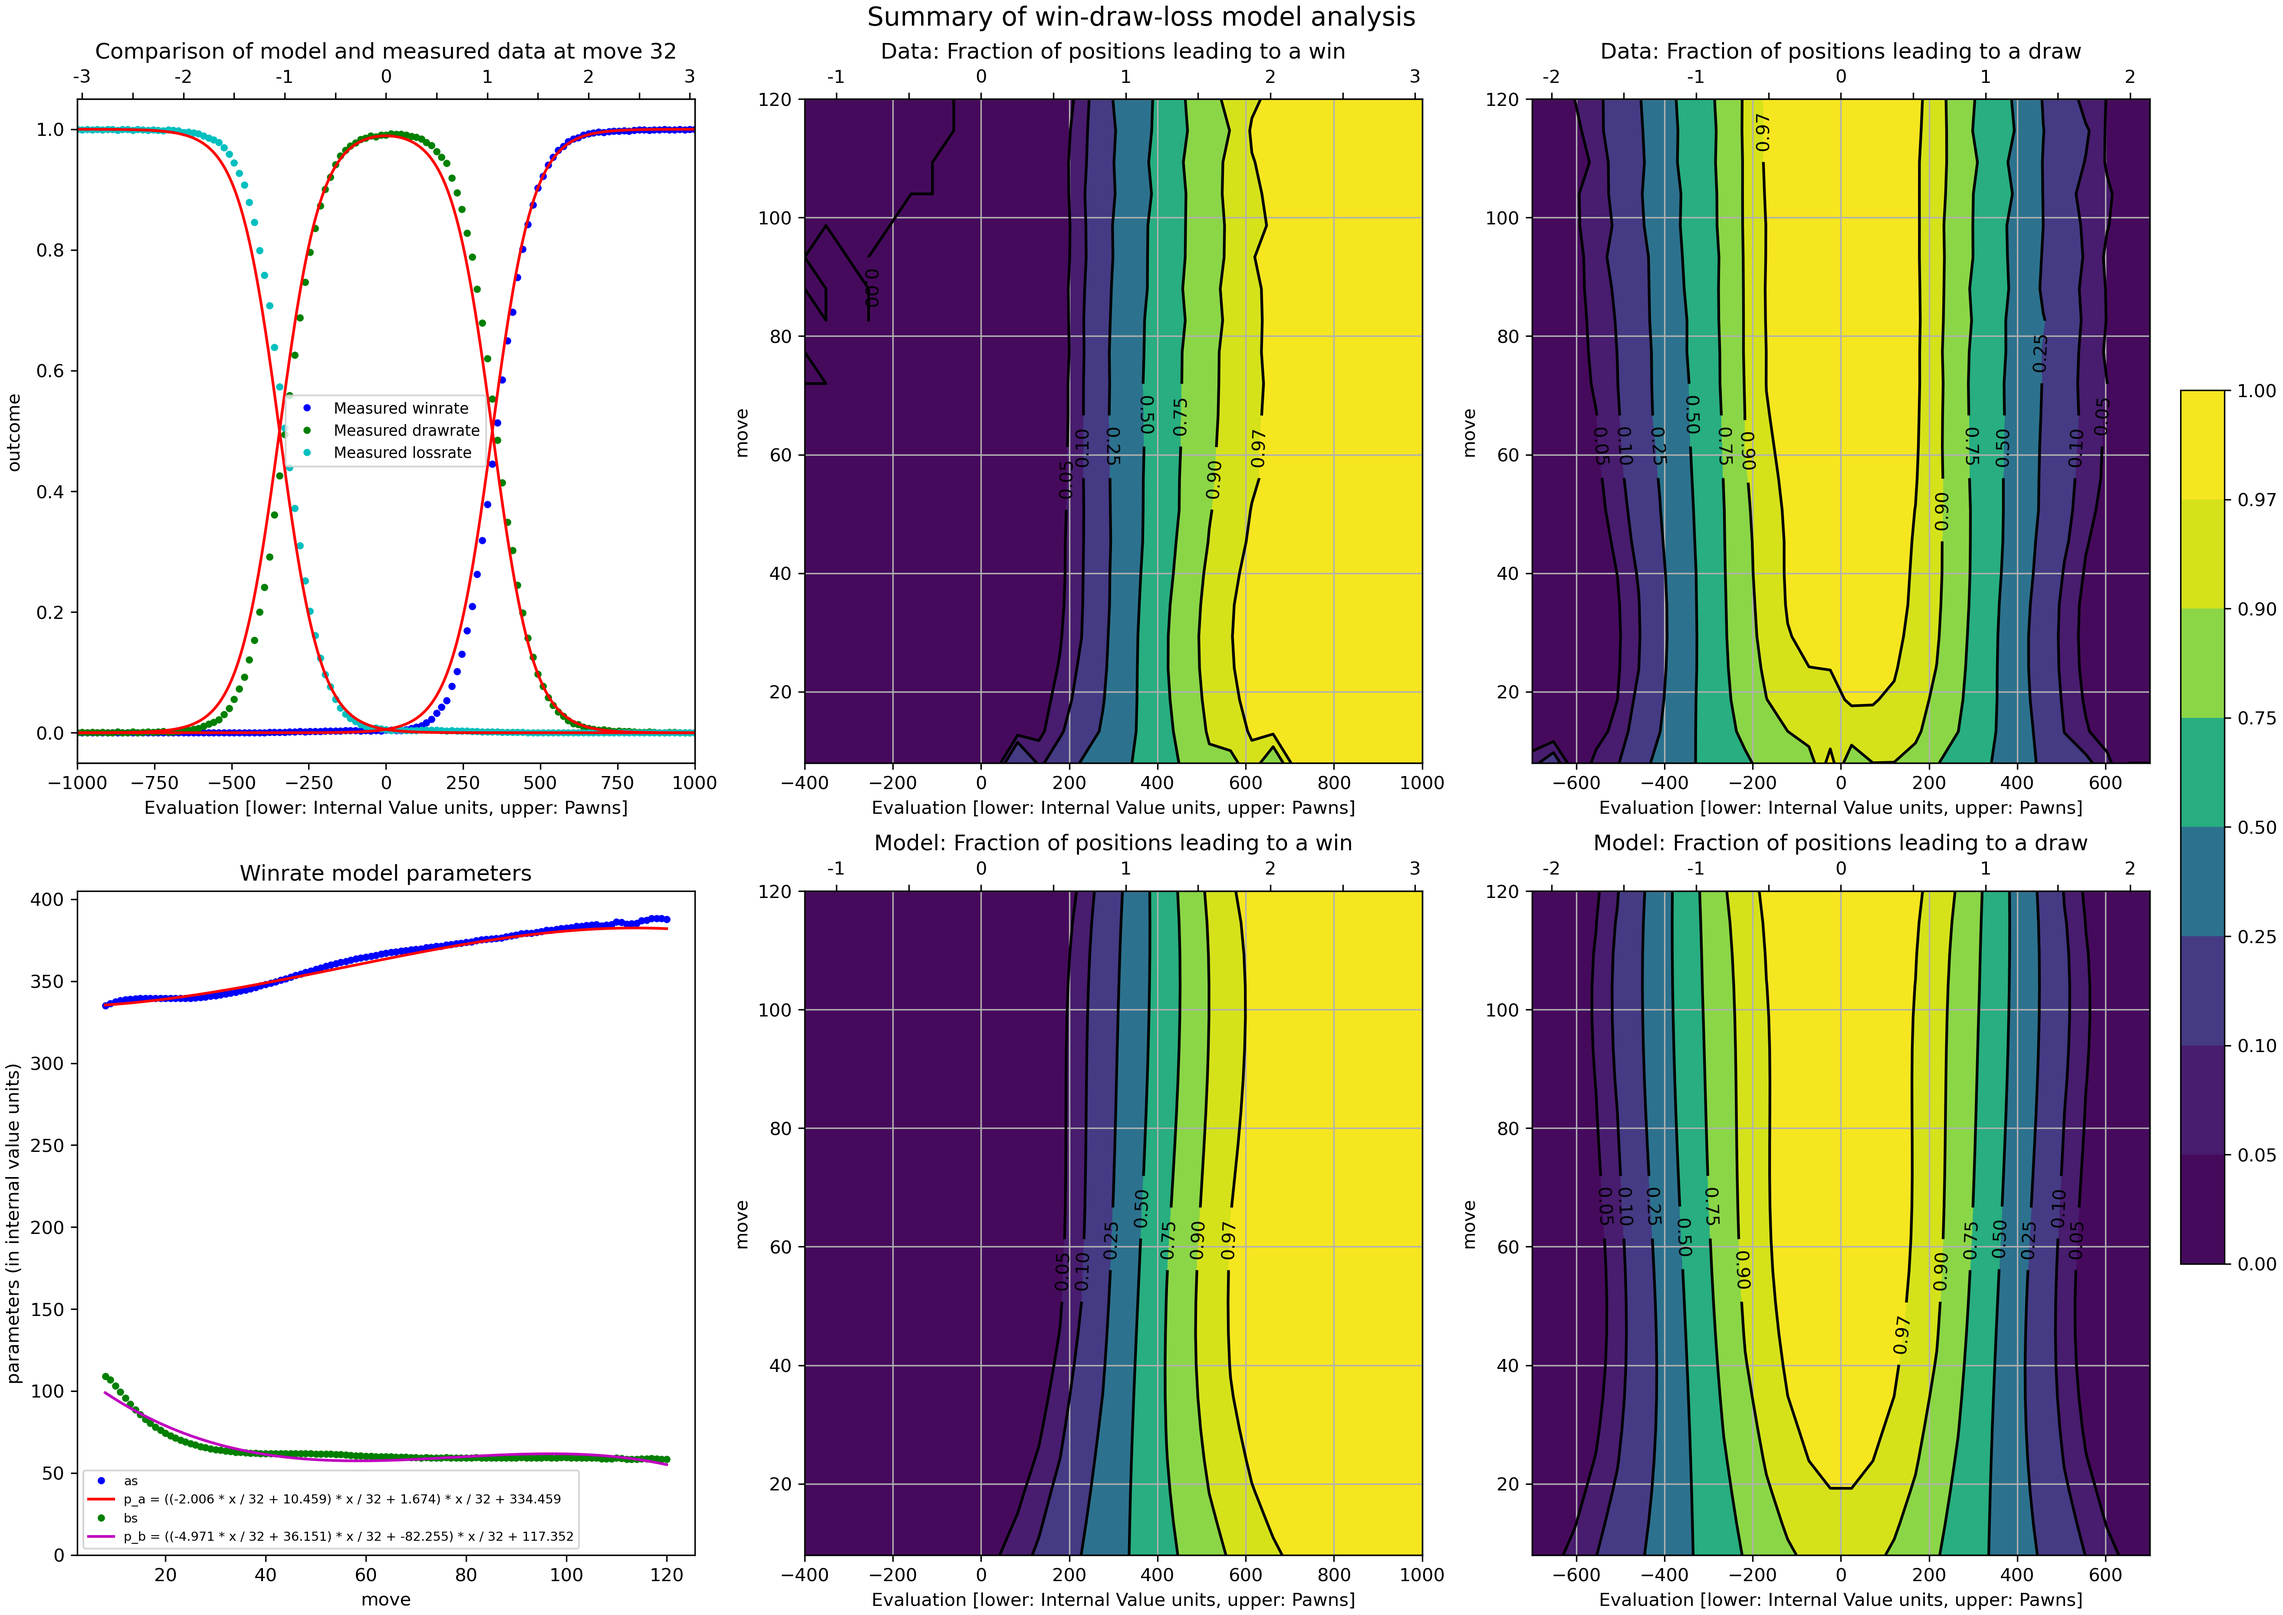
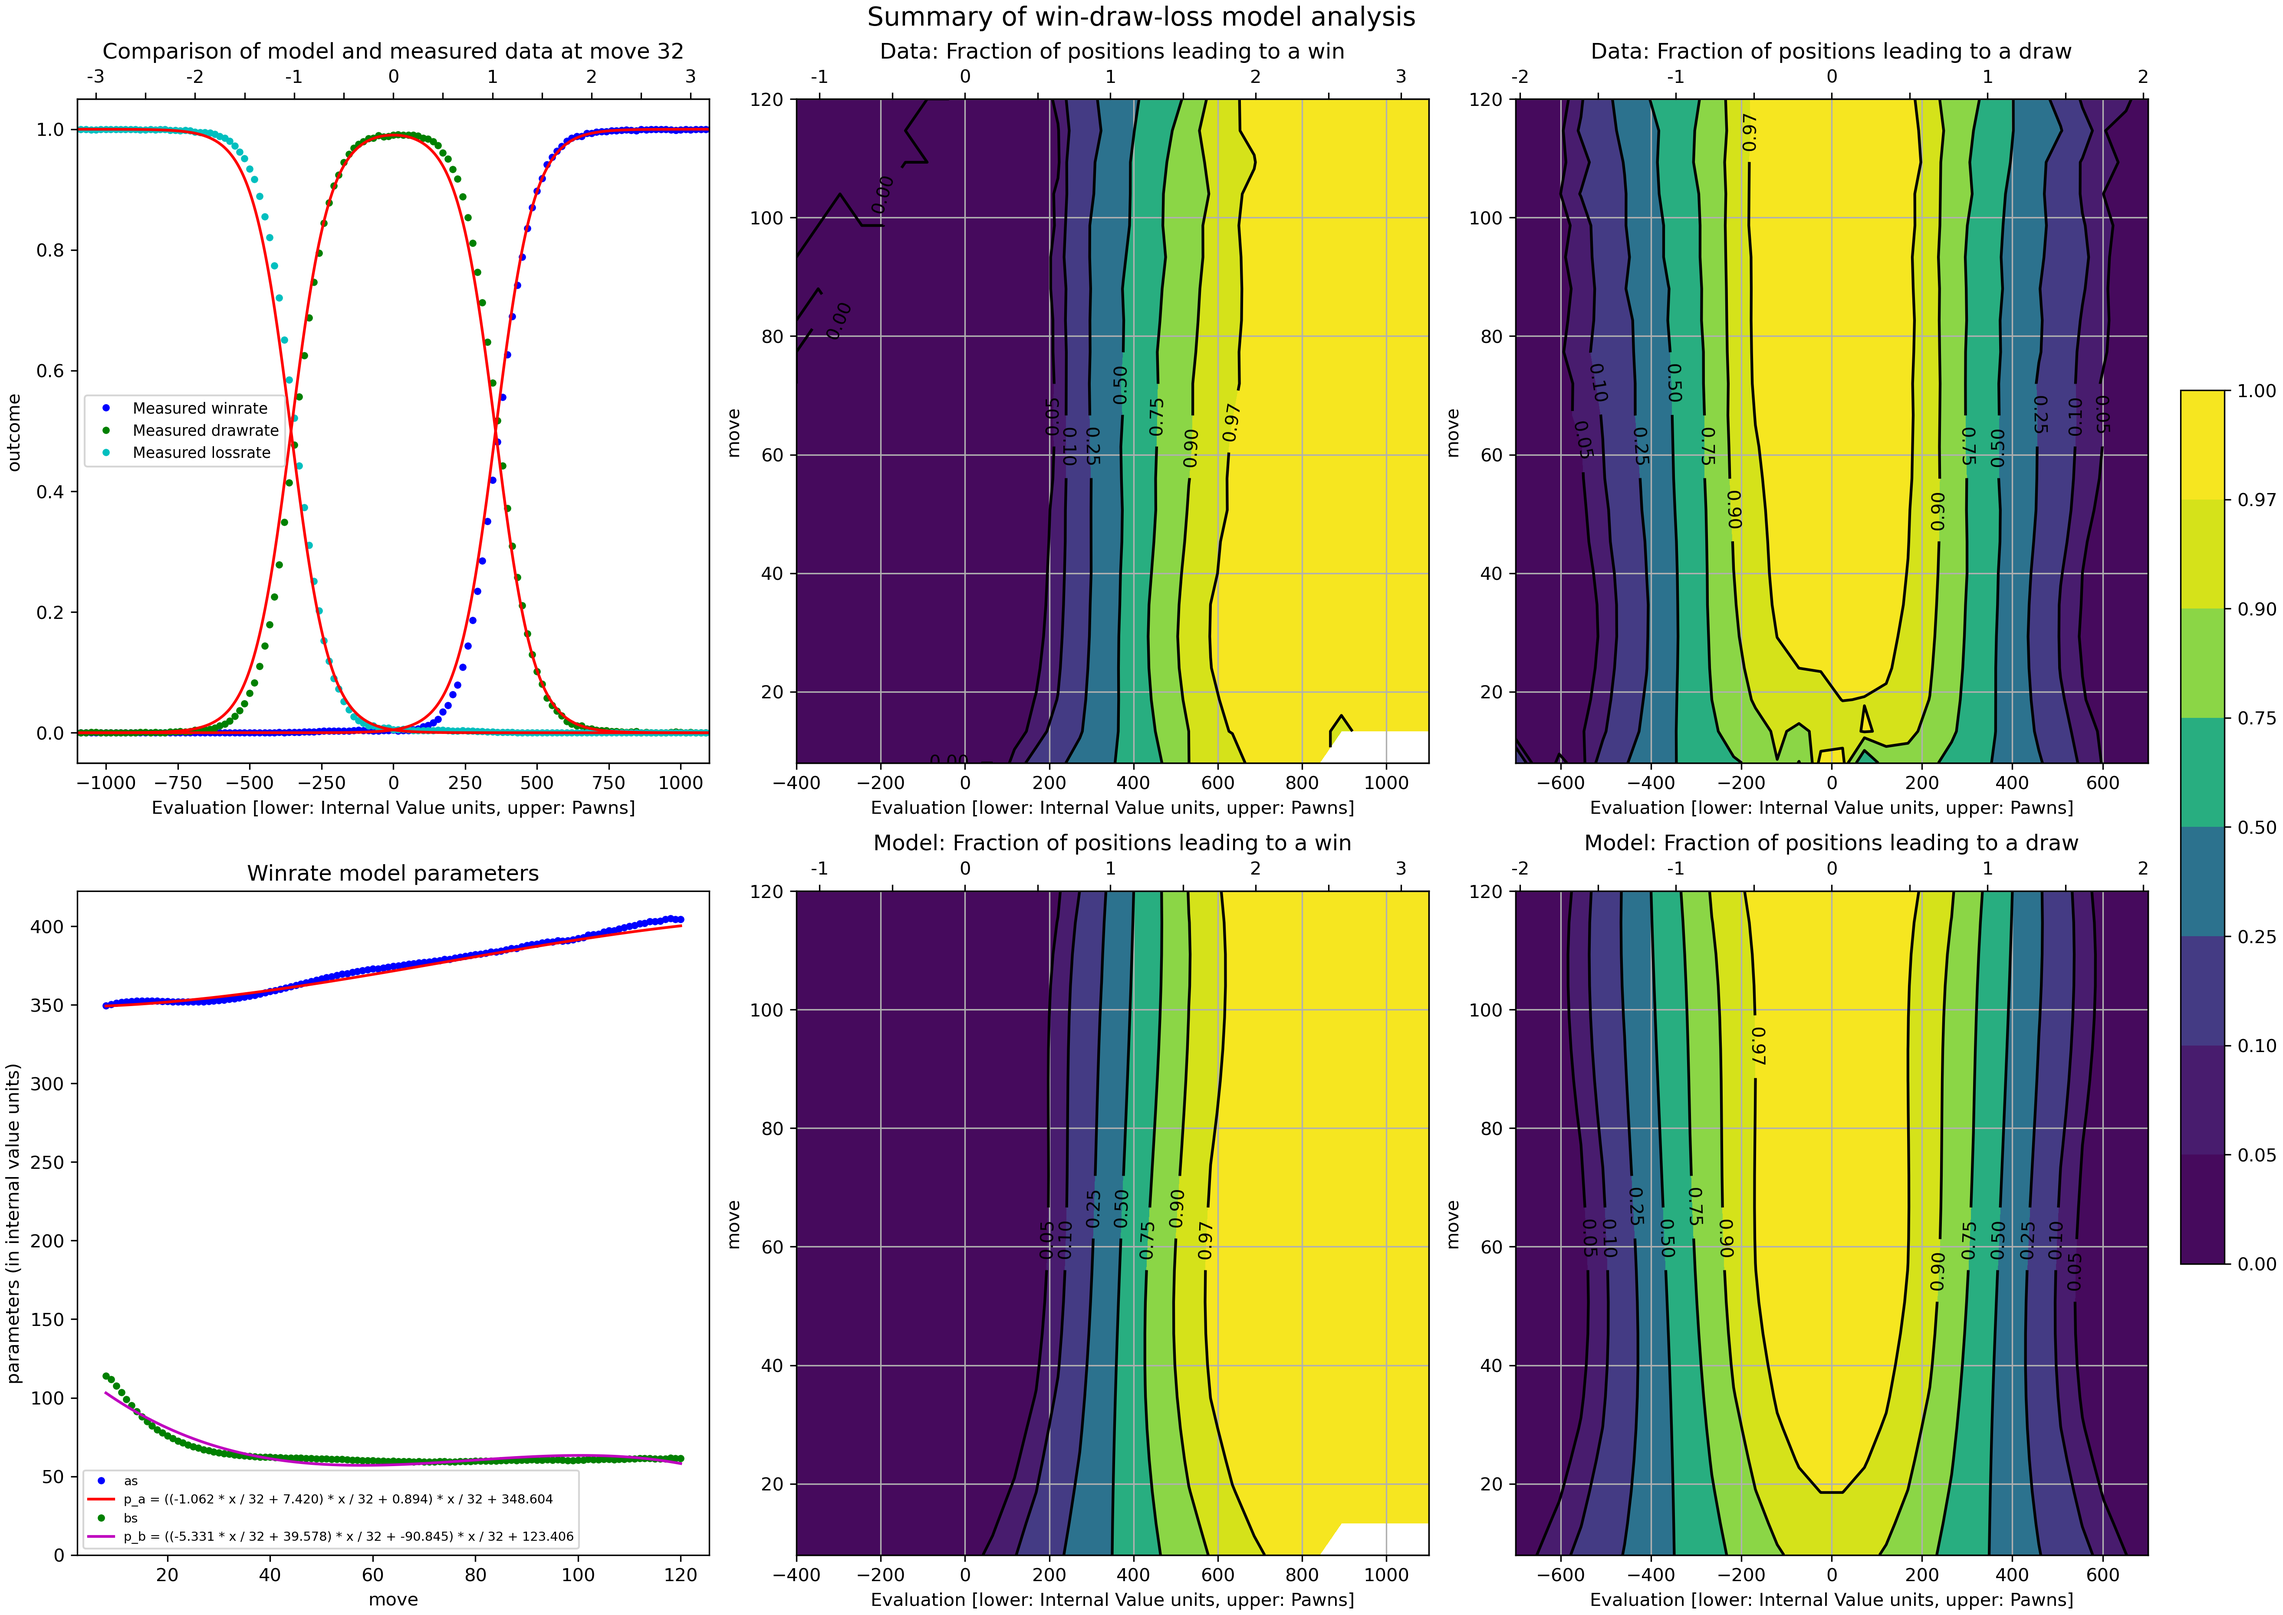
reflect SF 16.1 release (#167)

diff --git a/scoreWDL.py b/scoreWDL.py
@@ -658,7 +658,7 @@ if __name__ == "__main__":
 
     if args.NormalizeToPawnValue is None:
         if args.NormalizeData is None:
-            args.NormalizeToPawnValue = 345
+            args.NormalizeToPawnValue = 356
     else:
         assert (
             args.NormalizeData is None
